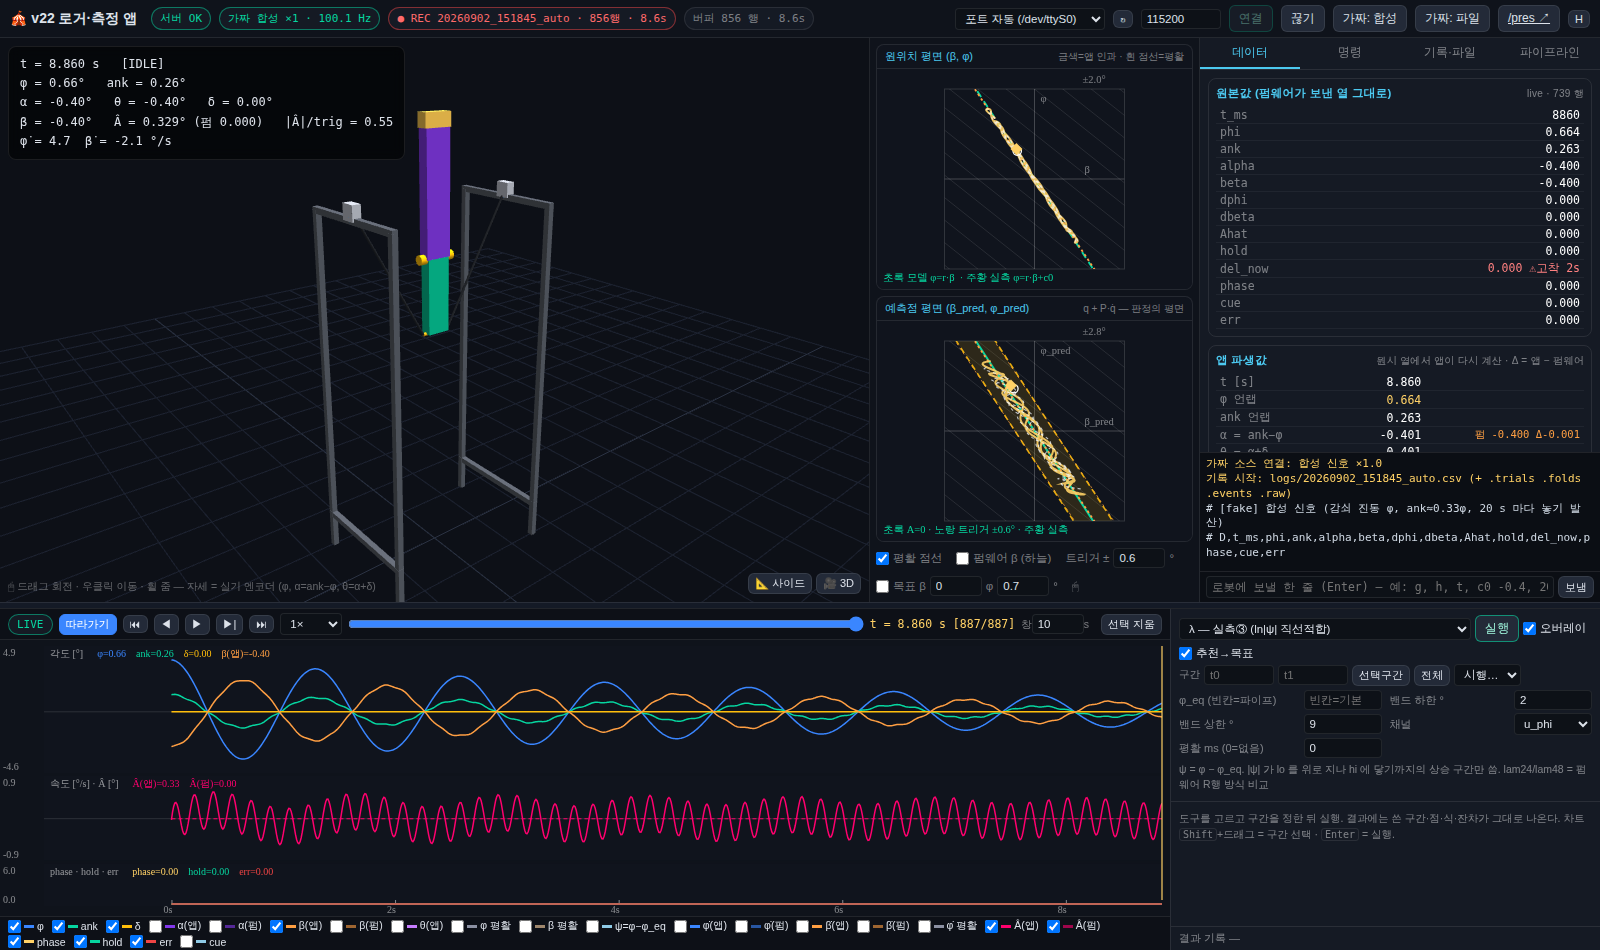
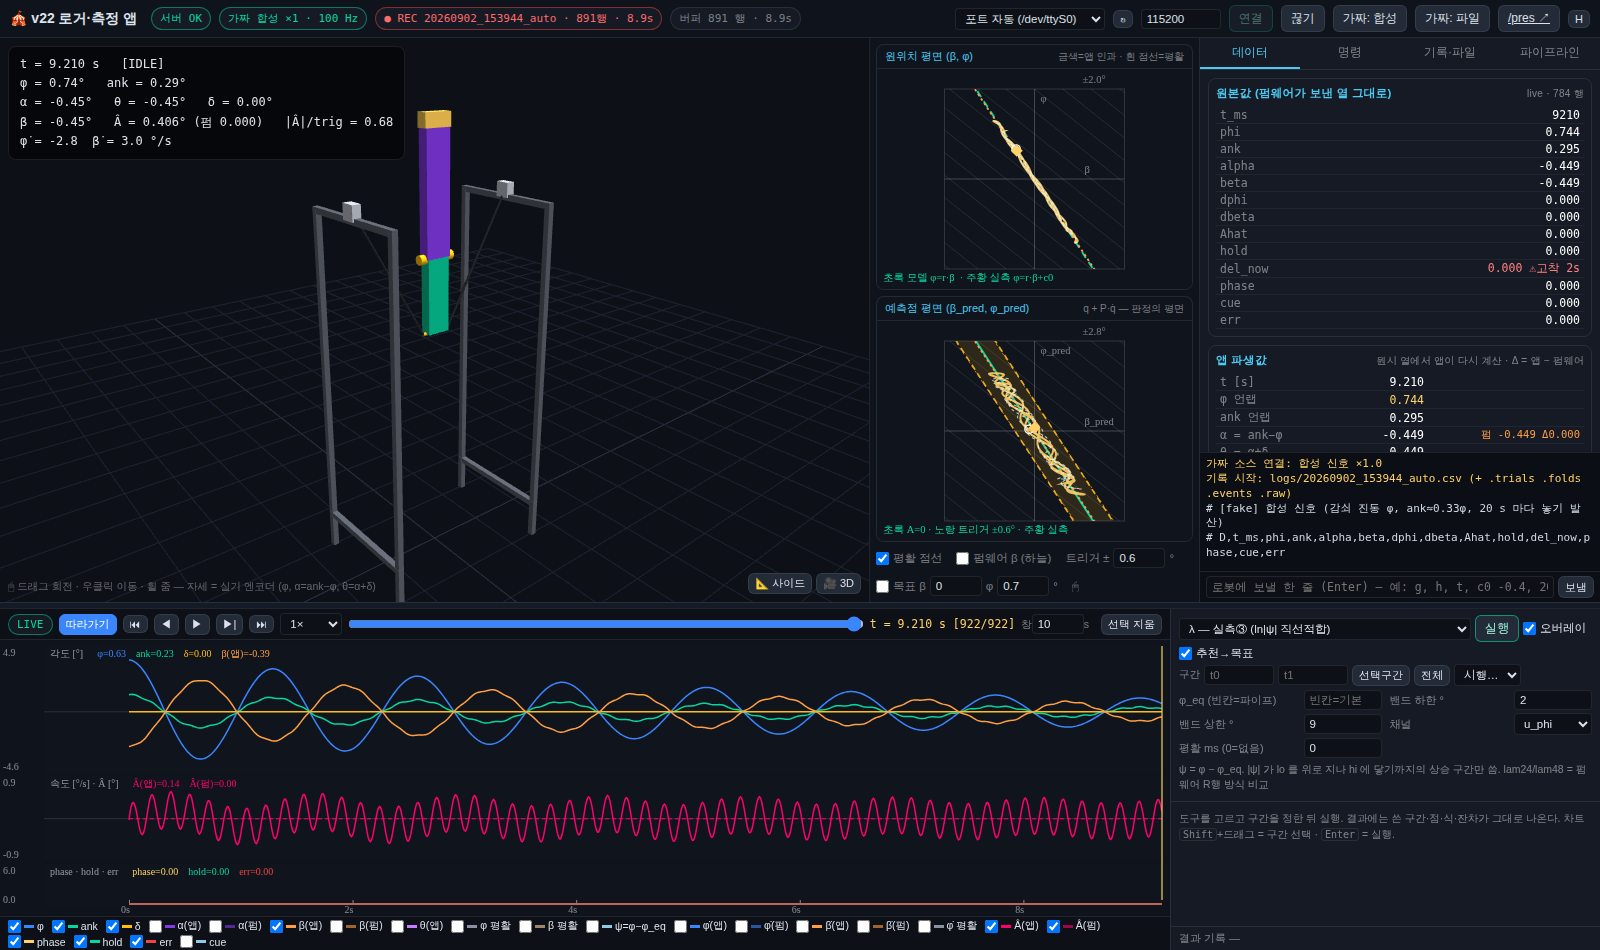
v22: 다음 놓기 추천(r 적응 탐색) — 놓기 순간 위상 적합, 열별 영점 할선, 벗어남 자동 축소, 폐루프 검증
- analysis: 시행 나누기 = 정지→이탈, 놓기 자세 = 정지 구간 중앙값, 종료 = 잡기문턱/재정지/시간상한, 방향 = 최대 이탈 부호
- analysis: φ−φ_q = A'(cosh λτ−1)+B'(cos ωτ−1) 적합으로 놓기 순간 t_r(진동 위상)과 부호 있는 거리 s=A'
- analysis.recommend: β 열별 영점(할선·클립), (β,영점) 회귀 → r̂·ĉ₀·SE, 다음 점 = 관측 적은 열의 영점 ± 벗어남
  (0.5° → 2·√((SE_r·β)²+SE_c0²), 최소 0.15° 로 자동 축소), 무발산 시행 = s 0
- sim_recommend.py 합성 폐루프(참값 r −1.5, c₀ 0.4, 손 오차 ±0.2°): 8~10회에 r ±0.1
- 파이프라인 om(안정모드 ω) 추가, 앱 목표점 십자선·Δ 판독·추천→목표 자동 입력·추천 배너
- 가이드(md·페이지) r 절을 추천 루프로, tests_v22(폐루프·놓기 자세)·e2e(추천) 통과

Claude-Session: https://claude.ai/code/session_01R1tYTbHm1MpVPBUC4nDtYR

diff --git a/v22_logger/static/lg_panels.js b/v22_logger/static/lg_panels.js
@@ -271,7 +271,7 @@ s_*     = 중심 이동평균(smooth_ms) + 중앙차분 (비인과, 지연 0)`;
     trials: { label: "시행 나누기 (놓기 → 발산 → 잡기)", win: "opt", help: "정지(손에 잡힘) → 이탈로 놓기를 찾는다. φ=±3° 에서 놓아도 된다. 놓기점 = 손 뗀 순간의 자세. dir_valid = 방향 확실(놓기 경계용), valid = λ 적합까지 좋음(λ 평균용)", p: TRIAL_P },
     phi_eq: { label: "φ_eq 훑기 (방향별 λ 일치점)", win: "opt", help: "문서 70 §5 — +낙하 λ 와 −낙하 λ 가 만나는 φ_eq. 양방향 시행이 있어야 한다", p: [{ k: "lo", l: "밴드 하한", v: 2.0 }, { k: "hi", l: "밴드 상한", v: 9.0 }, { k: "grid_lo", l: "격자 시작", v: -3 }, { k: "grid_hi", l: "격자 끝", v: 4 }, { k: "step", l: "격자 간격", v: 0.05 }, ...TRIAL_P.slice(2)] },
     osc: { label: "감쇠 진동 (ω, ζ, c_φ) — 매달림 자유흔들기", win: true, help: "영점 교차 → 주기, 봉우리 → 대수감쇠율, 정밀화 = 감쇠 사인 비선형 적합", p: [{ k: "ch", l: "채널", v: "u_phi", t: "chan" }, { k: "smooth_ms", l: "평활 ms", v: 0 }, { k: "refine", l: "정밀화", v: true, t: "bool" }, { k: "I_r", l: "I_r kg·m²", v: 0.0045 }] },
-    recommend: { label: "★ 다음 놓기 추천 (r 적응 탐색)", win: "opt", help: "놓을 때마다 s = 방향×발산 초기진폭(선까지 거리) 를 얻어 놓기점에 회귀 → r̂·ĉ₀. 다음 점 = 점이 적은 β 열의 추정선 ± off°. 실행할 때마다 시행을 다시 찾는다", p: [{ k: "off", l: "선에서 벗어남 °", v: 0.5 }, { k: "beta_set", l: "β 열 (쉼표)", v: "2,-2,1,-1,0", t: "text" }, { k: "first_phi", l: "첫 시행 φ", v: 0.7 }, { k: "r_guess", l: "r 초기 가정 (빈칸=파이프)", v: "" }, { k: "lam_fixed", l: "λ 고정 (빈칸=파이프)", v: "" }, ...TRIAL_P.slice(1)] },
+    recommend: { label: "★ 다음 놓기 추천 (r 적응 탐색)", win: "opt", help: "놓을 때마다 s = 방향×발산 초기진폭(선까지 거리) 를 얻어 놓기점에 회귀 → r̂·ĉ₀. 다음 점 = 점이 적은 β 열의 추정선 ± off°. 실행할 때마다 시행을 다시 찾는다", p: [{ k: "off", l: "처음 벗어남 °", v: 0.5 }, { k: "off_min", l: "최소 벗어남 °", v: 0.15 }, { k: "beta_set", l: "β 열 (쉼표)", v: "2,-2,1,-1,0", t: "text" }, { k: "first_phi", l: "첫 시행 φ", v: 0.7 }, { k: "r_guess", l: "r 초기 가정 (빈칸=파이프)", v: "" }, { k: "lam_fixed", l: "λ 고정 (빈칸=파이프)", v: "" }, ...TRIAL_P.slice(1)] },
     boundary: { label: "놓기 경계 r·c₀ — 실측② 경로②", win: "opt", help: "놓기점 (φ₀, β₀) 와 낙하 방향만 사용 (미분·모델 없음). r 고정 시 절편 c₀ 분리 문턱, r 격자 훑기 포함", p: [{ k: "r_fixed", l: "r 고정 (빈칸=파이프)", v: "" }, { k: "grid_lo", l: "r 격자 시작", v: -3 }, { k: "grid_hi", l: "r 격자 끝", v: -0.8 }, { k: "step", l: "간격", v: 0.01 }, ...TRIAL_P.slice(1)] },
     sysid: { label: "시스템 동정 4×4 — 실측② 경로①", win: "opt", help: "(φ̈, β̈) 를 (φ, β, φ̇, β̇, 1) 로 회귀 → 고유값 λ, 좌고유벡터 → r, wf, wb, c₀. 표본이 적거나 잡음이 크면 흔들린다 — R² 와 고유값을 꼭 볼 것", p: [{ k: "phi_max", l: "|φ| 상한 °", v: 5.0 }, { k: "smooth_ms", l: "SG 창 ms", v: 120 }, { k: "poly", l: "SG 차수", v: 3 }, ...TRIAL_P.slice(1)] },
   };
@@ -341,7 +341,7 @@ s_*     = 중심 이동평균(smooth_ms) + 중앙차분 (비인과, 지연 0)`;
       const nx = res.next;
       h = `<div style="border:1px solid var(--cyan);border-radius:8px;padding:8px 10px;margin-bottom:8px;background:rgba(76,201,240,.08)">
         <div style="font-size:11px;color:var(--cyan)">다음 놓기 (${esc(nx.reason || "")})</div>
-        <div style="font-family:Consolas;font-size:15px;color:#fff;margin:3px 0">β <b>${(+nx.beta).toFixed(2)}</b>°   φ <b>${(+nx.phi).toFixed(2)}</b>°   (ank ${(+nx.ank).toFixed(2)}°)  ${nx.side > 0 ? "선 위쪽" : "선 아래쪽"}</div>
+        <div style="font-family:Consolas;font-size:15px;color:#fff;margin:3px 0">β <b>${(+nx.beta).toFixed(2)}</b>°   φ <b>${(+nx.phi).toFixed(2)}</b>°   (ank ${(+nx.ank).toFixed(2)}°)  ${nx.side > 0 ? "선 위쪽" : "선 아래쪽"}${nx.off != null ? " " + (+nx.off).toFixed(2) + "°" : ""}</div>
         <div style="font-size:11px;color:var(--dim)">현재 추정 r = ${fmtV(res.result.r)} ± ${fmtV(res.result.se_r)} · c₀ = ${fmtV(res.result.c0)} ± ${fmtV(res.result.se_c0)} · n = ${res.result.n}${res.result.enough ? '  <b style="color:#06d6a0">— 충분 (SE_r < 0.05)</b>' : ""}</div></div>` + h;
       if (el("cAutoTgt").checked) { el("cTgt").checked = true; el("iTgtB").value = (+nx.beta).toFixed(2); el("iTgtF").value = (+nx.phi).toFixed(2); }
     }

diff --git a/v22_logger/analysis_v22.py b/v22_logger/analysis_v22.py
@@ -847,7 +847,7 @@ def sysid(ds, windows=None, phi_max=5.0, smooth_ms=120.0, poly=3, t0=None, t1=No
 
 # ---------------------------------------------------------------- 8. 다음 놓기 추천 (r 적응 탐색)
 def recommend(ds, trials=None, off=0.5, beta_set="2,-2,1,-1,0", r_guess=None, lam_fixed=None, first_phi=0.7,
-              step_max=1.0, phi_max=6.0, **kw):
+              step_max=1.0, phi_max=6.0, off_min=0.15, **kw):
     """다음 놓기 추천 (r 적응 탐색 — 경사하강 식).
        각 시행: s = dir·amp0 (선까지의 부호 있는 거리; 발산 초기진폭). 발산 없음 = s 0.
        β 열마다 s(φ) 의 영점 φ_c 를 할선법으로 추정(관측 1개면 기울기 k̂ 로 한 걸음, 걸음 폭 ≤ step_max),
@@ -959,16 +959,21 @@ def recommend(ds, trials=None, off=0.5, beta_set="2,-2,1,-1,0", r_guess=None, la
             phi_line = roots[beta_next]["phi_c"]; why = f"그 열의 영점 {phi_line:+.2f}"
         else:
             phi_line = est["r"] * beta_next + est["c0"]; why = f"추정선 {est['r']:.2f}·β+{est['c0']:.2f}"
-        phi_n = float(np.clip(phi_line + side * off, -phi_max, phi_max))
-        nxt = dict(beta=float(beta_next), phi=phi_n, side=side,
-                   reason=f"β={beta_next:+.1f} 열(점 {counts[beta_next]}개) — {why} 의 {'위' if side>0 else '아래'} {off}°")
+        # 벗어남은 추정선의 불확실성에 맞춰 줄인다: 선의 φ 오차 ≈ √((SE_r·β)² + SE_c0²) 의 2배, off_min 이상 off 이하.
+        off_eff = off
+        if est.get("se_r") is not None and est.get("se_c0") is not None:
+            unc = math.sqrt((est["se_r"] * beta_next) ** 2 + est["se_c0"] ** 2)
+            off_eff = float(np.clip(2.0 * unc, off_min, off))
+        phi_n = float(np.clip(phi_line + side * off_eff, -phi_max, phi_max))
+        nxt = dict(beta=float(beta_next), phi=phi_n, side=side, off=off_eff,
+                   reason=f"β={beta_next:+.1f} 열(점 {counts[beta_next]}개) — {why} 의 {'위' if side>0 else '아래'} {off_eff:.2f}°")
     nxt["ank"] = float(nxt["beta"] + nxt["phi"])
     done = est.get("se_r") is not None and est["se_r"] < 0.05 and n >= 8
     res = dict(n=n, r=_r(est["r"], 4), c0=_r(est["c0"], 3), se_r=_r(est.get("se_r"), 4), se_c0=_r(est.get("se_c0"), 3),
                k=_r(k_hat, 4), method=est["method"], r_ref=-1.506, n_cols=len(roots),
                next_beta=_r(nxt["beta"], 2), next_phi=_r(nxt["phi"], 2), next_ank=_r(nxt["ank"], 2),
-               next_side="위(+)" if nxt["side"] > 0 else "아래(−)", enough=bool(done))
-    steps.append("다음 점 = 점이 가장 적은 β 열의 영점 ± off° (선 위에 정확히 놓으면 발산이 없어 숫자가 안 나온다). 같은 열에서는 직전 낙하 방향의 반대쪽")
+               next_side="위(+)" if nxt["side"] > 0 else "아래(−)", next_off=_r(nxt.get("off", off), 3), enough=bool(done))
+    steps.append(f"다음 점 = 점이 가장 적은 β 열의 영점 ± 벗어남. 벗어남은 처음 {off}° 에서 추정선 불확실성(2·√((SE_r·β)²+SE_c0²))까지 줄어든다 (최소 {off_min}°) — 선에 가까울수록 늦게 넘어져 s 가 작고 잡음에 묻히므로, 확실한 만큼만 다가간다. 같은 열에서는 직전 낙하 방향의 반대쪽")
     steps.append("정지 조건: 8점 이상, 열 3개 이상, SE(r) < 0.05. 정본 r = −1.506 ± 0.074 (문서 70)")
     table = [dict(k=p["k"], beta0=_r(p["beta"], 3), phi0=_r(p["phi"], 3), dir=p["dir"], s=_r(p["s"], 4), kind=p["kind"]) for p in pts]
     for b in sorted(roots):
@@ -989,7 +994,7 @@ def recommend(ds, trials=None, off=0.5, beta_set="2,-2,1,-1,0", r_guess=None, la
         curves.append(dict(kind="xy", label="s (부호·발산세기) vs 추정선까지 거리", x=[_r(v) for v in dist], y=[_r(p["s"]) for p in pts],
                            fit_x=[_r(v) for v in xs], fit_y=[_r(k_hat * v) for v in xs], xlab="φ₀ − r̂β₀ − ĉ₀ [°]", ylab="s"))
     return dict(tool="recommend", ok=True, window=None, used=[], n=n, steps=steps, result=res, table=table,
-                params=dict(off=off, beta_set=bset, r_guess=r_guess, step_max=step_max), overlay=[], plane=plane, curves=curves, next=nxt)
+                params=dict(off=off, off_min=off_min, beta_set=bset, r_guess=r_guess, step_max=step_max), overlay=[], plane=plane, curves=curves, next=nxt)
 
 
 # ---------------------------------------------------------------- 디스패치

diff --git a/docs/v22_측정_조작_가이드_20260902.md b/docs/v22_측정_조작_가이드_20260902.md
@@ -46,14 +46,16 @@
 ## r 측정 — 앱이 다음 놓기점을 추천한다 (적응 탐색, 약 8~12회)
 원리(문서 70 §4-2 경로②): 속도 0 으로 놓은 점이 안정모드선 **φ = r·β + c₀** 의 어느 쪽에 있느냐가 넘어지는 방향을 정하고,
 **얼마나 멀리 있느냐**가 발산의 초기 진폭을 정한다. 앱은 놓기 한 번마다 이 부호 있는 거리 s 를 재고, β 열마다 s = 0 이 되는 φ(영점)를
-할선법으로 추정한 뒤 열들의 영점을 직선으로 이어 r̂·ĉ₀ 를 낸다. 다음 놓기점은 **관측이 가장 적은 β 열의 영점에서 0.5° 벗어난 자리**다.
+할선법으로 추정한 뒤 열들의 영점을 직선으로 이어 r̂·ĉ₀ 를 낸다. 다음 놓기점은 **관측이 가장 적은 β 열의 영점에서 조금 벗어난 자리**다.
+벗어남은 처음 0.5° 에서 시작해 추정선의 불확실성만큼(2·√((SE_r·β)²+SE_c0²), 최소 0.15°)으로 줄어든다 — 선 위에 정확히 놓아도 로봇은
+결국 넘어지지만(비선형 씨딩, 1.5~2 s) 늦게 넘어질수록 s 가 작아 잡음에 묻히므로, 확실한 만큼만 선에 다가간다.
 사람은 추천대로 놓고 실행만 누르면 된다. 이분법으로 훑을 때(약 20회)보다 절반이다.
 
 ### 루프 (놓기 한 번 = 4 클릭)
 | 순서 | 앱 | 손 |
 |---|---|---|
-| 0 | 도구 **★ 다음 놓기 추천** 선택. 파라미터 기본값(벗어남 0.5°, β 열 2,−2,1,−1,0, 첫 시행 φ 0.7). **실행** | — |
-| 1 | 분석 패널 맨 위 파란 상자: **다음 놓기 β ○ φ ○ (ank ○) 선 위쪽/아래쪽**. 「추천→목표」가 켜져 있으면 평면 십자선에 자동 입력된다 | 판독 Δβ·Δφ 가 ±0.2 안에 오도록 잡는다 |
+| 0 | 도구 **★ 다음 놓기 추천** 선택. 파라미터 기본값(처음 벗어남 0.5°, 최소 0.15°, β 열 2,−2,1,−1,0, 첫 시행 φ 0.7). **실행** | — |
+| 1 | 분석 패널 맨 위 파란 상자: **다음 놓기 β ○ φ ○ (ank ○) 선 위쪽/아래쪽 ○°**(벗어남). 「추천→목표」가 켜져 있으면 평면 십자선에 자동 입력된다 | 판독 Δβ·Δφ 가 ±0.2 안에 오도록 잡는다 |
 | 2 | — | 1 초 정지 → 줄 방향으로 손 빼기 → 8° 에서 잡기 |
 | 3 | **실행**(<kbd>Enter</kbd>) — 시행을 다시 찾고 추천을 갱신 | 다시 세우는 동안 |
 | 4 | 상자의 새 추천과 아래 숫자 `r`·`se_r`·`c0`·`n`·`n_cols`, 원위치 평면의 **하늘색 추정선**과 **하늘색 원(다음 점)**, 표의 `s` 열 | 1 로 |

diff --git a/v22_logger/README_v22.md b/v22_logger/README_v22.md
@@ -70,7 +70,7 @@ python server.py --fake "../lambda test/0822_lambda_test.csv" --speed 2
 | **φ_eq 훑기** | φ_eq 격자마다 방향별 λ 곡선 → 만나는 점 | 문서 70 §5 (+낙하/−낙하 갈림 → 1.40°) |
 | 감쇠 진동 | 영점교차→주기, 봉우리→대수감쇠율→ζ, 감쇠사인 비선형 정밀화, c_φ=2ζω_n·I_r | 문서 16 방식 |
 | **놓기 경계 r·c₀** | 놓기점(φ₀,β₀)+낙하방향만 — r 고정 분리 문턱 c₀, r 격자 훑기 | 문서 70 §4-2 경로② |
-| **★ 다음 놓기 추천** | 놓기마다 부호 있는 거리 s(발산 초기진폭 A', 놓기 순간은 진동 위상으로) → β 열별 영점(할선) → r̂·ĉ₀ → 다음 놓기점(관측 적은 열의 영점 ± 0.5°). 합성 폐루프: 8회에 r ±0.1 | 신규 (사용자 제안, 9/2) |
+| **★ 다음 놓기 추천** | 놓기마다 부호 있는 거리 s(발산 초기진폭 A', 놓기 순간은 진동 위상으로) → β 열별 영점(할선) → r̂·ĉ₀ → 다음 놓기점(관측 적은 열의 영점 ± 벗어남, 0.5°에서 추정 불확실성까지 자동 축소). 합성 폐루프: 8회에 r ±0.1 | 신규 (사용자 제안, 9/2) |
 | 시스템 동정 | (φ̈,β̈)~(φ,β,φ̇,β̇,1) 회귀 → 4×4 고유값 λ, 좌고유벡터 → r, wf, wb, c₀ | 문서 70 §4-2 경로① — ⚠표본 적으면 흔들린다. R²·고유값을 같이 본다 |
 
 결과 패널에는 **절차(번호 목록) → 숫자 → 표 → 보조 곡선**이 나오고, 차트에는 쓴 점·적합선·밴드·통과시각이, 평면에는
